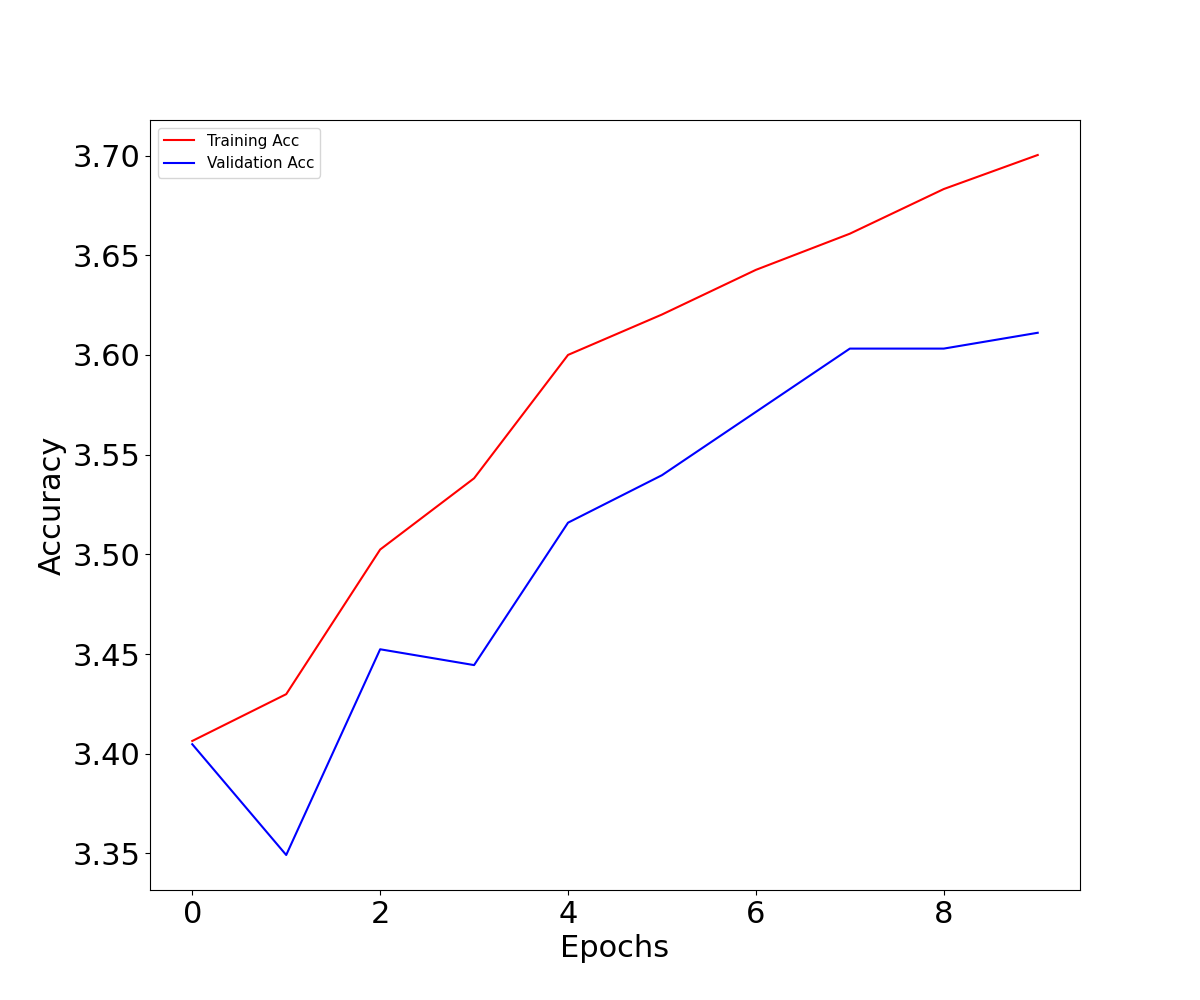
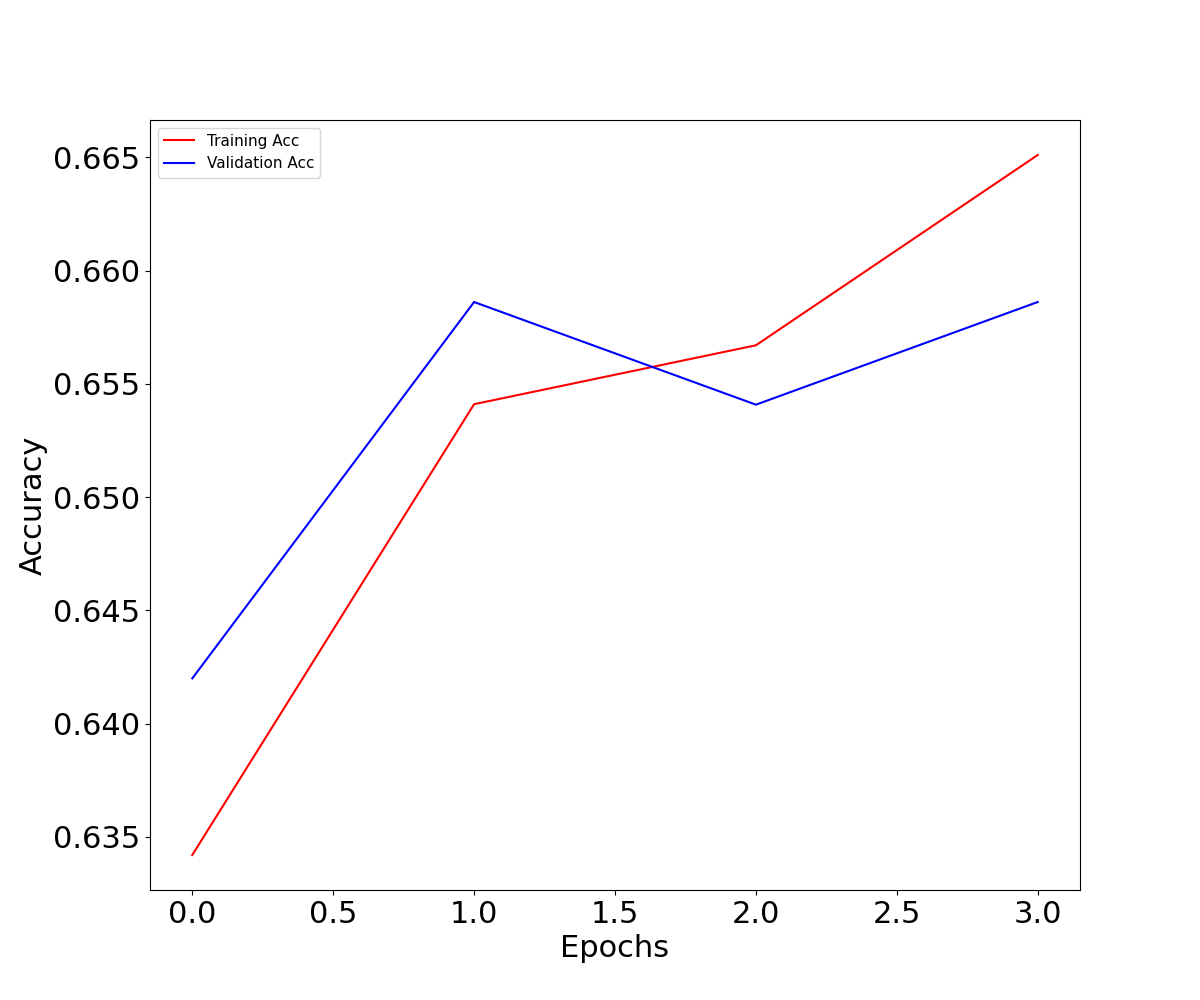
FIX accuracy

diff --git a/lab3/training.py b/lab3/training.py
@@ -78,7 +78,8 @@ def eval_dataset(dataloader, model, loss_function, binary_classification=True):
     # disable regularization layers, such as Dropout
     model.eval()
     running_loss = 0.0
-    num_of_corrects = 0.0
+    num_of_corrects = 0
+    num_of_samples = 0
     running_f1 = 0.0
     running_recall = 0.0
 
@@ -117,6 +118,7 @@ def eval_dataset(dataloader, model, loss_function, binary_classification=True):
 
             # compute batch accuracy
             running_loss += loss.data.item()
+            num_of_samples += len(inputs)
             if binary_classification:
                 num_of_corrects += torch.sum(class_pred == torch.argmax(labels,dim=1))
                 running_f1 += f1_score(torch.argmax(labels,dim=1),class_pred,average='macro')
@@ -126,5 +128,6 @@ def eval_dataset(dataloader, model, loss_function, binary_classification=True):
                 num_of_corrects += torch.sum(class_pred == labels)
                 running_f1 += f1_score(labels,class_pred,average='macro')
                 running_recall += recall_score(labels,class_pred,average='macro')
+        # print("accuracy: ",num_of_corrects,num_of_samples,num_of_corrects.item()/num_of_samples)
 
-    return running_loss / index, (y_pred, y), num_of_corrects / (index*len(batch)), running_f1 / index , running_recall / index
+    return running_loss / index, (y_pred, y), num_of_corrects.item() / num_of_samples, running_f1 / index , running_recall / index

diff --git a/lab3/utils/plotting.py b/lab3/utils/plotting.py
@@ -1,6 +1,6 @@
 import matplotlib.pyplot as plt 
 
-def plot_training_curves(tr_loss, tr_acc, val_loss, val_acc,name):
+def plot_training_curves(tr_loss, tr_acc, val_loss, val_acc,name,model):
     '''Plot training learning curves for both train and validation.'''
 
     #Range for the X axis.
@@ -14,7 +14,7 @@ def plot_training_curves(tr_loss, tr_acc, val_loss, val_acc,name):
     plt.xlabel("Epochs") #title for x axis
     plt.ylabel("Loss")   #title for y axis
     plt.legend(fontsize=11)
-    plt.savefig('diagrams/loss_'+name+'.png')
+    plt.savefig('diagrams/loss_'+name+'_'+model+'.png')
 
     #Plotting Accuracy figures.
     plt.figure(figsize=(12,10)) #figure size h,w in inches
@@ -23,7 +23,7 @@ def plot_training_curves(tr_loss, tr_acc, val_loss, val_acc,name):
     plt.xlabel("Epochs")   #title for x axis
     plt.ylabel("Accuracy") #title for y axis
     plt.legend(fontsize=11)
-    plt.savefig('diagrams/accuracy_'+name+'.png')
+    plt.savefig('diagrams/accuracy_'+name+'_'+model+'.png')
 
 # if __name__ == "__main__":
 #     a = [1,2,3,4]

diff --git a/lab3/main.py b/lab3/main.py
@@ -169,7 +169,8 @@ for epoch in range(1, EPOCHS + 1):
     tr_rec.append(recall_train)
     val_rec.append(recall_test)
 
-plot_training_curves(tr_loss,tr_acc,val_loss,val_acc,DATASET)
+plot_training_curves(tr_loss,tr_acc,val_loss,val_acc,DATASET,MODEL)
+print("acc total:",tr_acc)
 
 print(f"Best f1 score={max(tr_f1)} for epoch {np.argmax(tr_f1)} in training set.")
 print(f"Best f1 score={max(val_f1)} for epoch {np.argmax(val_f1)} in test set")
